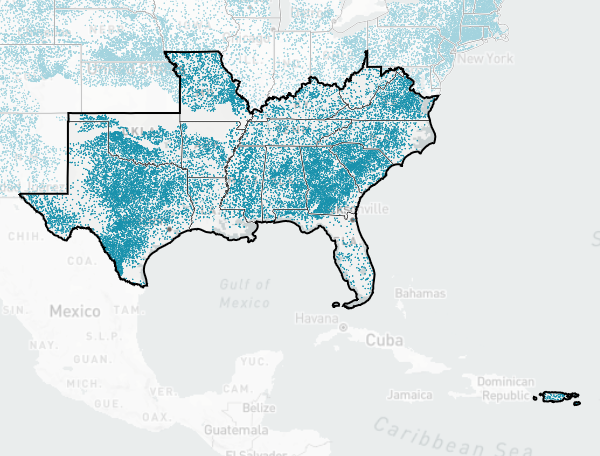
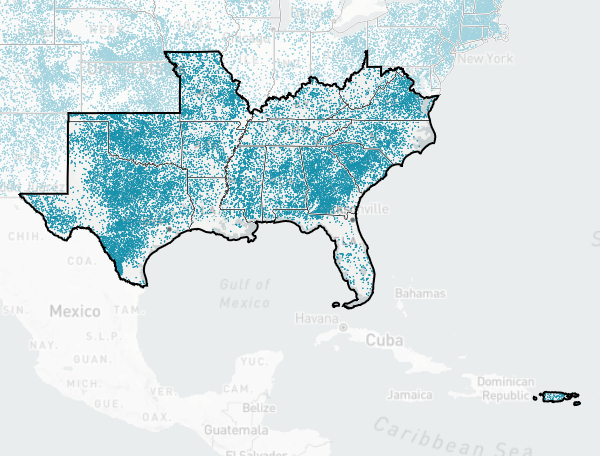
Fix missing HUC4 network data in region 11

diff --git a/analysis/prep/network/prep_floodplain_stats.py b/analysis/prep/network/prep_floodplain_stats.py
@@ -31,7 +31,7 @@ start = time()
 huc2_df = pd.read_feather(data_dir / "boundaries/huc2.feather", columns=["HUC2"])
 huc2s = huc2_df.HUC2.sort_values().values.tolist()
 
-layers = list_layers(gdb_filename)[:, 0]
+layers = sorted(list_layers(gdb_filename)[:, 0])
 
 merged = None
 for layer in layers:
